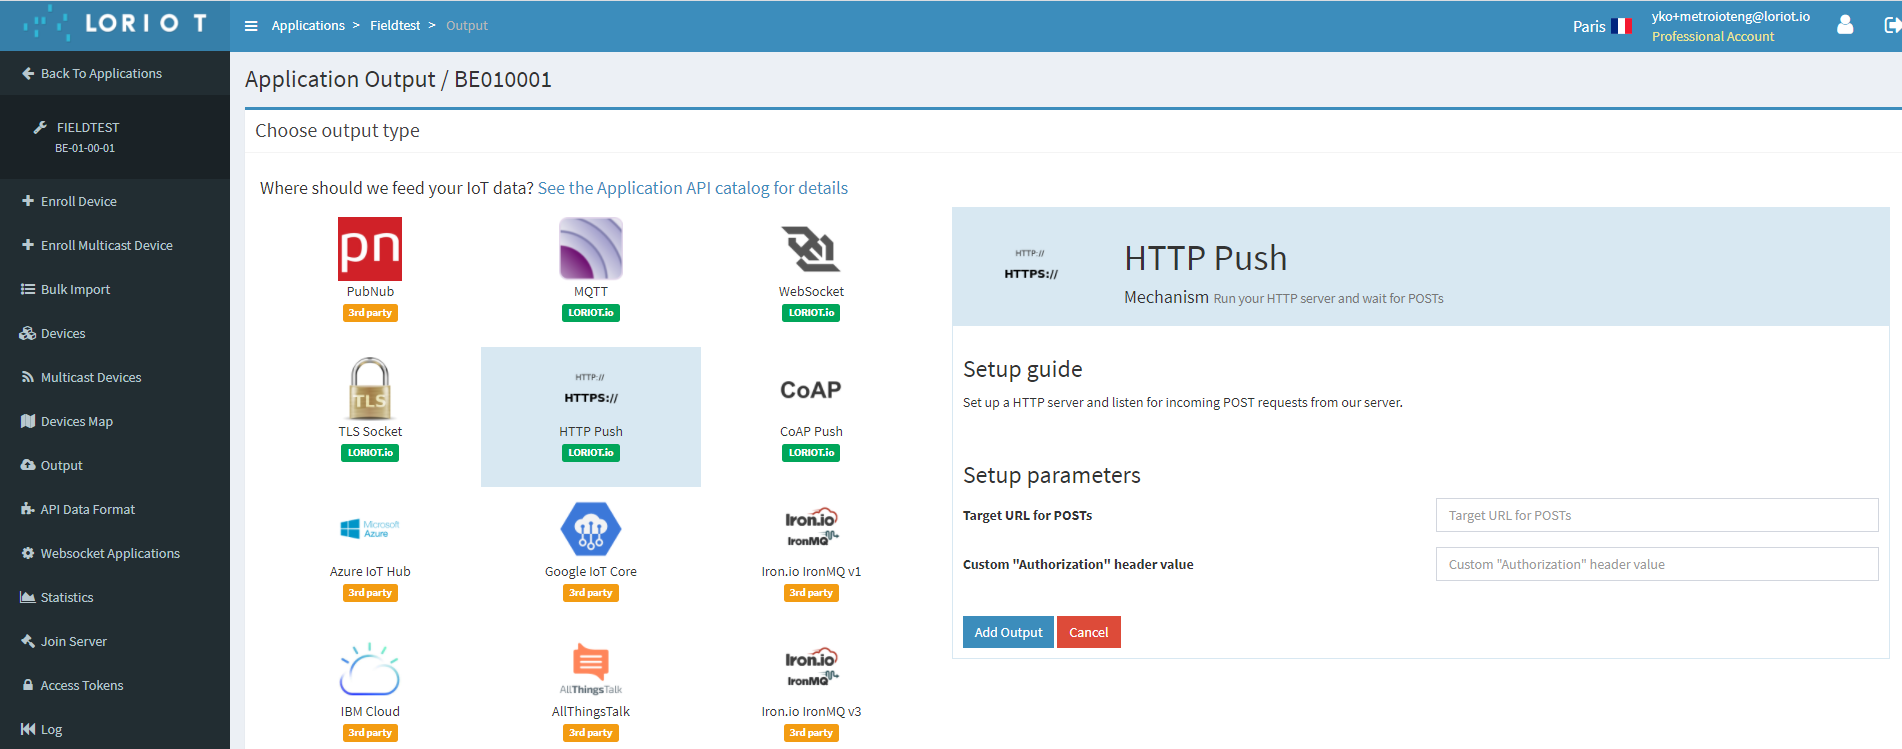
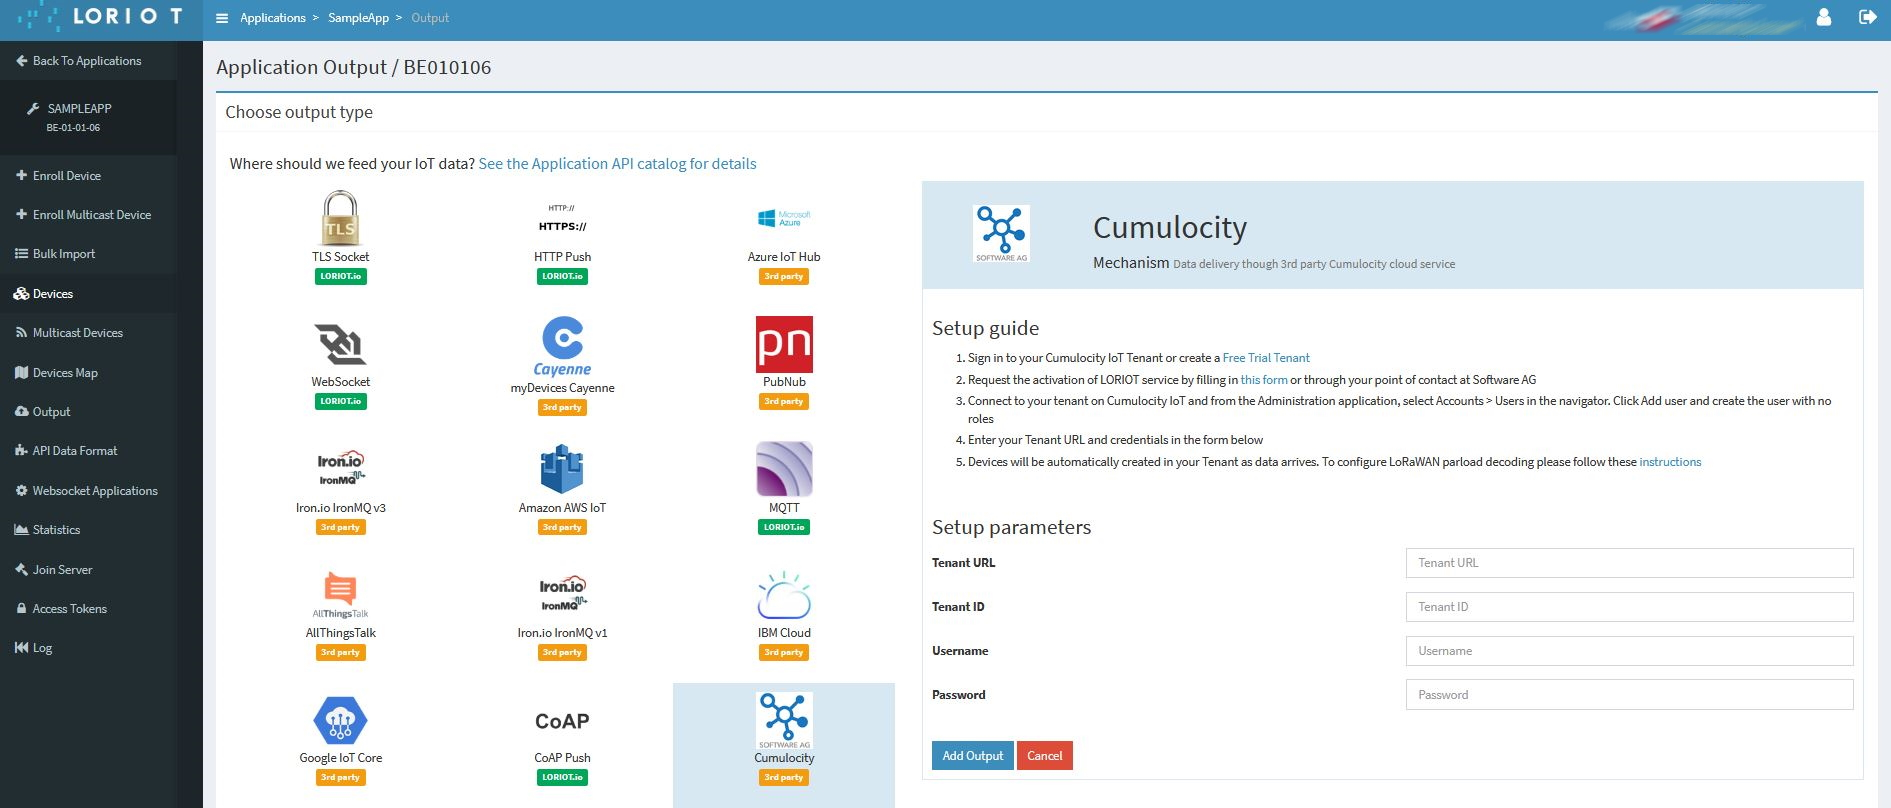
MTM-36385-Loriot-Lora-Documentation-Updated screen shots

diff --git a/content/protocol-integration/lora-loriot-bundle/loriot-overview.md b/content/protocol-integration/lora-loriot-bundle/loriot-overview.md
@@ -6,7 +6,7 @@ layout: redirect
 
 Cumulocity IoT can interface with LORIOT Network Server through the Loriot agent microservice. You can:
 
-* Configure the Loriot agent endpoint in LORIOT Network Server using HTTPS data forwarder.
+* Configure the Loriot agent endpoint in LORIOT Network Server using Cumulocity data forwarder.
 * Assign a device protocol for the LoRa device for payload processing. 
 * Decode upstream payload packets using a web-based user interface.
 * Post-process raw device data through Cumulocity IoT events.

diff --git a/content/protocol-integration/lora-loriot-bundle/configure-loriot-credentials.md b/content/protocol-integration/lora-loriot-bundle/configure-loriot-credentials.md
@@ -16,7 +16,7 @@ LORIOT Network Server forwards the LoRa device messages to the external applicat
 
 ![Output page with https forwarder](/images/device-protocols/lora-loriot/loriot-output-https-page.png)
 
-Use HTTPS data forwarder for configuring the Loriot endpoint using Basic authentication.
+Use Cumulocity data forwarder for configuring the Loriot endpoint using Basic authentication.
 
 ![Setting endpoint credentials](/images/device-protocols/lora-loriot/loriot-endpoint-assignment.png)
 
